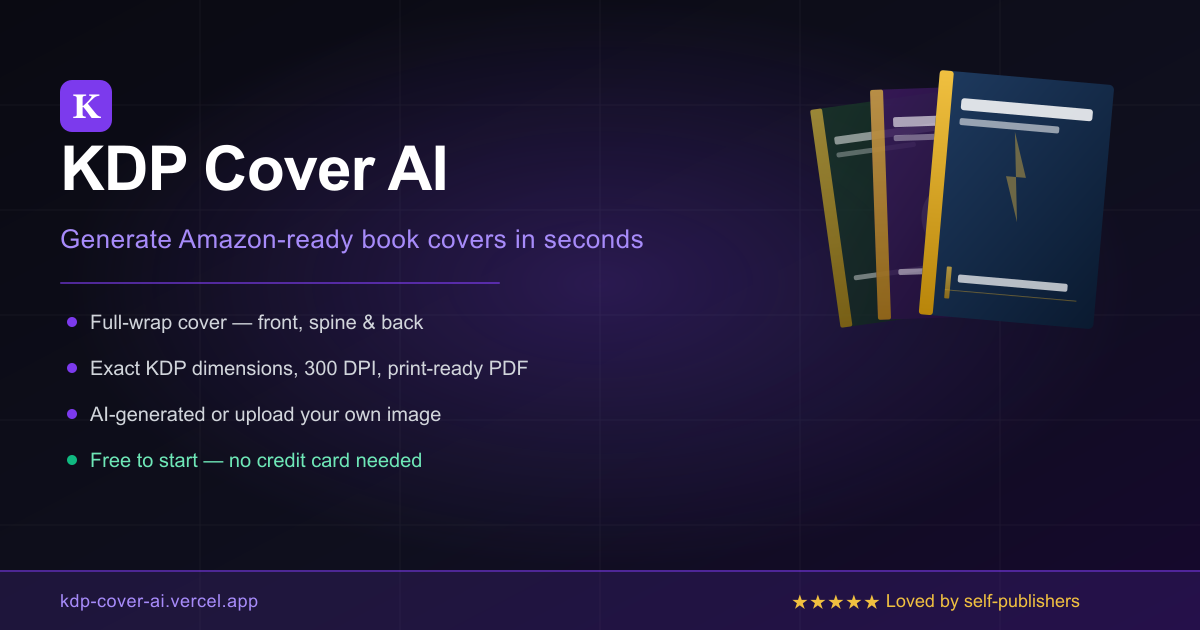
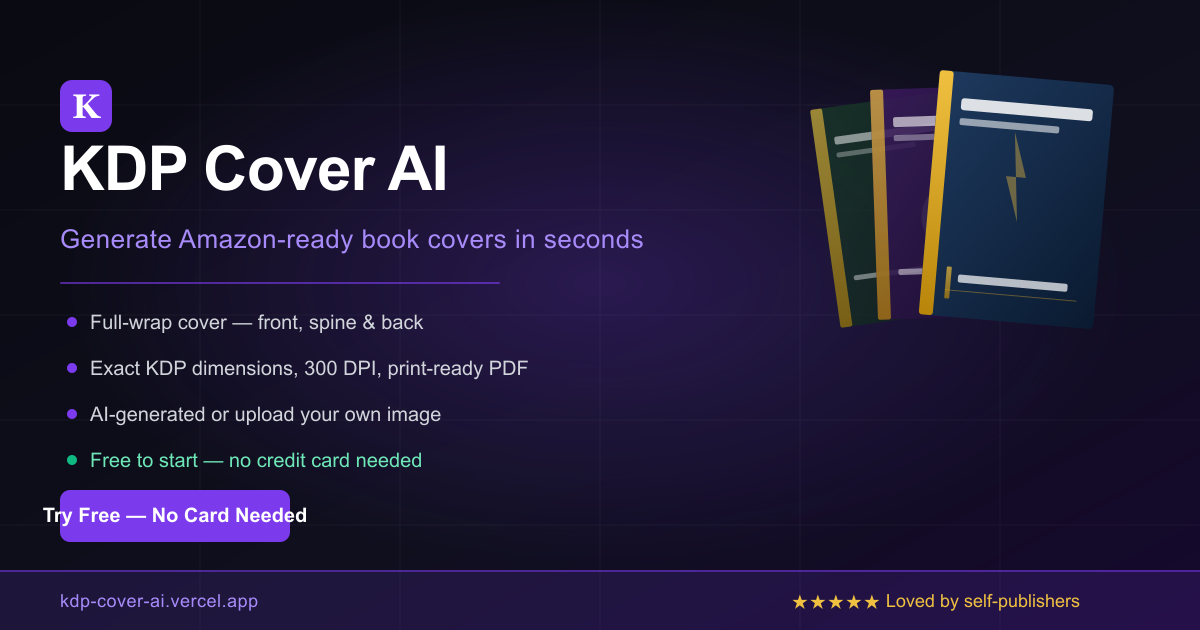
Fix OG image CTA and shorten title to 58 chars
- Add purple CTA button "Try Free — No Card Needed" to og-image
- Shorten title from 66 to 58 chars (within optimal 50-60 range)
- Regenerate og-image.png

Changed region(s): [[0.0308, 0.754, 0.2775, 0.8746]]

diff --git a/src/app/layout.tsx b/src/app/layout.tsx
@@ -7,7 +7,7 @@ const inter = Inter({ subsets: ['latin'] })
 
 export const metadata: Metadata = {
   metadataBase: new URL('https://kdp-cover-ai.vercel.app'),
-  title: 'KDP Cover AI — Amazon KDP Book Cover Generator for Self-Publishers',
+  title: 'KDP Cover AI — Free AI Book Cover Generator for Amazon KDP',
   description: 'Generate professional full-wrap Amazon KDP book covers with AI in seconds. Front cover, spine & back — exact 300 DPI dimensions, ready to upload. Free to start.',
   keywords: ['Amazon KDP', 'book cover generator', 'AI book cover', 'KDP cover maker', 'self-publishing', 'print-ready PDF', 'full wrap cover'],
   icons: {
@@ -23,7 +23,7 @@ export const metadata: Metadata = {
   },
   manifest: '/site.webmanifest',
   openGraph: {
-    title: 'KDP Cover AI — Amazon KDP Book Cover Generator for Self-Publishers',
+    title: 'KDP Cover AI — Free AI Book Cover Generator for Amazon KDP',
     description: 'Generate professional full-wrap Amazon KDP book covers with AI in seconds. Front cover, spine & back — exact 300 DPI dimensions, ready to upload. Free to start.',
     type: 'website',
     url: 'https://kdp-cover-ai.vercel.app',
@@ -32,7 +32,7 @@ export const metadata: Metadata = {
   },
   twitter: {
     card: 'summary_large_image',
-    title: 'KDP Cover AI — Amazon KDP Book Cover Generator for Self-Publishers',
+    title: 'KDP Cover AI — Free AI Book Cover Generator for Amazon KDP',
     description: 'Generate professional full-wrap Amazon KDP book covers with AI in seconds. Front cover, spine & back — exact 300 DPI dimensions, ready to upload. Free to start.',
     images: ['https://kdp-cover-ai.vercel.app/og-image.png'],
   },
